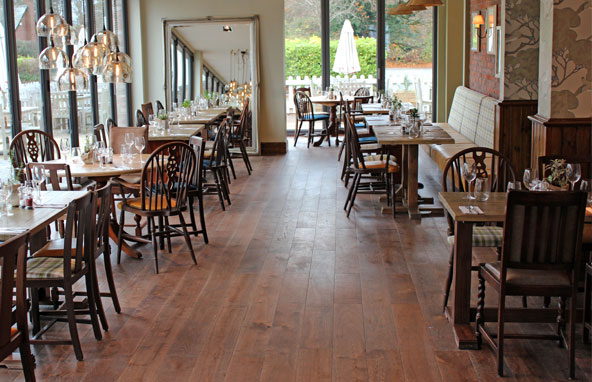
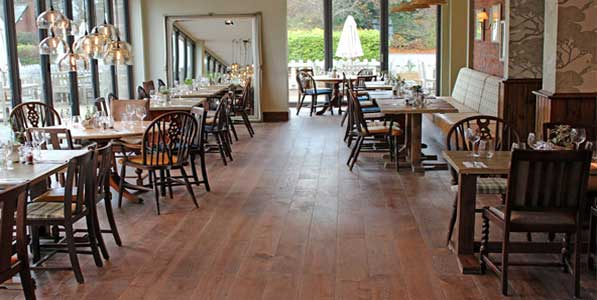
Optimised

diff --git a/Trails/_vti_cnf/Chester.html b/Trails/_vti_cnf/Chester.html
@@ -1,18 +1,18 @@
 vti_encoding:SR|utf8-nl
-vti_timelastmodified:TR|20 May 2014 14:10:47 -0000
+vti_timelastmodified:TR|20 May 2014 15:01:28 -0000
 vti_extenderversion:SR|12.0.0.0
 vti_backlinkinfo:VX|Trails/Chester.html Trails.html
 vti_author:SR|SIMON-HP\\Simon
 vti_modifiedby:SR|SIMON-HP\\Simon
 vti_timecreated:TR|14 May 2014 10:51:52 -0000
 vti_title:SR|Great British Food Trail
-vti_nexttolasttimemodified:TW|20 May 2014 14:10:08 -0000
-vti_cacheddtm:TX|20 May 2014 14:10:08 -0000
-vti_filesize:IR|25261
+vti_nexttolasttimemodified:TW|20 May 2014 14:10:47 -0000
+vti_cacheddtm:TX|20 May 2014 15:01:28 -0000
+vti_filesize:IR|25162
 vti_cachedtitle:SR|Great British Food Trail
 vti_cachedbodystyle:SR|<body>
-vti_cachedlinkinfo:VX|G|../Site.dwt Q|../Bootstrap/css/bootstrap.min.css Q|../GreatBritishFoodTrailsStyleSheet.css S|https://ajax.googleapis.com/ajax/libs/jquery/1.11.0/jquery.min.js S|../Bootstrap/js/collapse.js S|../Bootstrap/js/carousel.js S|../Bootstrap/js/dropdown.js S|../cordova.js S|../device.js S|../inappbrowser.js H|../index.html H|../AboutFoodTrails.html H|../Trails.html H|../Map.html H|../Help.html H|../TrailWebsites.html K|Chester.html K|Chester.html K|Chester.html K|Chester.html K|Chester.html K|Chester.html K|Chester.html S|../Images/BawnLodge1.fw.png S|../Images/BawnLodge3.fw.png S|../Images/BawnLodge2.fw.png K|Chester.html K|Chester.html K|Chester.html S|../Images/BearBillet1.fw.png S|../Images/BearBillet3.fw.png S|../Images/BearBillet2.fw.png K|Chester.html K|Chester.html K|Chester.html S|../Images/BreweryTap1.fw.png S|../Images/BreweryTap3.fw.png S|../Images/BreweryTap2.fw.png K|Chester.html K|Chester.html K|Chester.html S|../Images/CoachHouse1.fw.png S|../Images/CoachHouse3.fw.png S|../Images/CoachHouse2.fw.png K|Chester.html K|Chester.html K|Chester.html S|../Images/MillHotel1.fw.png S|../Images/MillHotel3.fw.png S|../Images/MillHotel2.fw.png K|Chester.html K|Chester.html K|Chester.html S|../Images/HarkersArms1.fw.png S|../Images/HarkersArms3.fw.png S|../Images/HarkersArms2.fw.png K|Chester.html K|Chester.html K|Chester.html S|../Images/PiedBull1.fw.png S|../Images/PiedBull3.fw.png S|../Images/PiedBull2.fw.png K|Chester.html K|Chester.html K|Chester.html S|../Images/RingoBells1.fw.png S|../Images/RingoBells3.fw.png S|../Images/RingoBells2.fw.png K|Chester.html K|Chester.html K|Chester.html S|../Images/Telfords1.fw.png S|../Images/Telfords3.fw.png S|../Images/Telfords2.fw.png K|Chester.html K|Chester.html K|Chester.html S|../Images/TempleBar1.fw.png S|../Images/TempleBar3.fw.png S|../Images/TempleBar2.fw.png K|Chester.html K|Chester.html K|Chester.html S|../Images/KashTaprooms1.fw.png S|../Images/KashTaprooms3.fw.png S|../Images/KashTaprooms2.fw.png K|Chester.html K|Chester.html S|../Images/ic_logo.png S|../Images/chesteruni_logo.png
-vti_cachedsvcrellinks:VX|FGUS|Site.dwt FQUS|Bootstrap/css/bootstrap.min.css FQUS|GreatBritishFoodTrailsStyleSheet.css NSSS|https://ajax.googleapis.com/ajax/libs/jquery/1.11.0/jquery.min.js FSUS|Bootstrap/js/collapse.js FSUS|Bootstrap/js/carousel.js FSUS|Bootstrap/js/dropdown.js FSUS|cordova.js FSUS|device.js NSUS|inappbrowser.js FHUS|index.html FHUS|AboutFoodTrails.html FHUS|Trails.html FHUS|Map.html FHUS|Help.html FHUS|TrailWebsites.html FKUS|Trails/Chester.html FKUS|Trails/Chester.html FKUS|Trails/Chester.html FKUS|Trails/Chester.html FKUS|Trails/Chester.html FKUS|Trails/Chester.html FKUS|Trails/Chester.html FSUS|Images/BawnLodge1.fw.png FSUS|Images/BawnLodge3.fw.png FSUS|Images/BawnLodge2.fw.png FKUS|Trails/Chester.html FKUS|Trails/Chester.html FKUS|Trails/Chester.html FSUS|Images/BearBillet1.fw.png FSUS|Images/BearBillet3.fw.png FSUS|Images/BearBillet2.fw.png FKUS|Trails/Chester.html FKUS|Trails/Chester.html FKUS|Trails/Chester.html FSUS|Images/BreweryTap1.fw.png FSUS|Images/BreweryTap3.fw.png FSUS|Images/BreweryTap2.fw.png FKUS|Trails/Chester.html FKUS|Trails/Chester.html FKUS|Trails/Chester.html FSUS|Images/CoachHouse1.fw.png FSUS|Images/CoachHouse3.fw.png FSUS|Images/CoachHouse2.fw.png FKUS|Trails/Chester.html FKUS|Trails/Chester.html FKUS|Trails/Chester.html FSUS|Images/MillHotel1.fw.png FSUS|Images/MillHotel3.fw.png FSUS|Images/MillHotel2.fw.png FKUS|Trails/Chester.html FKUS|Trails/Chester.html FKUS|Trails/Chester.html FSUS|Images/HarkersArms1.fw.png FSUS|Images/HarkersArms3.fw.png FSUS|Images/HarkersArms2.fw.png FKUS|Trails/Chester.html FKUS|Trails/Chester.html FKUS|Trails/Chester.html FSUS|Images/PiedBull1.fw.png FSUS|Images/PiedBull3.fw.png FSUS|Images/PiedBull2.fw.png FKUS|Trails/Chester.html FKUS|Trails/Chester.html FKUS|Trails/Chester.html FSUS|Images/RingoBells1.fw.png FSUS|Images/RingoBells3.fw.png FSUS|Images/RingoBells2.fw.png FKUS|Trails/Chester.html FKUS|Trails/Chester.html FKUS|Trails/Chester.html FSUS|Images/Telfords1.fw.png FSUS|Images/Telfords3.fw.png FSUS|Images/Telfords2.fw.png FKUS|Trails/Chester.html FKUS|Trails/Chester.html FKUS|Trails/Chester.html FSUS|Images/TempleBar1.fw.png FSUS|Images/TempleBar3.fw.png FSUS|Images/TempleBar2.fw.png FKUS|Trails/Chester.html FKUS|Trails/Chester.html FKUS|Trails/Chester.html FSUS|Images/KashTaprooms1.fw.png FSUS|Images/KashTaprooms3.fw.png FSUS|Images/KashTaprooms2.fw.png FKUS|Trails/Chester.html FKUS|Trails/Chester.html FSUS|Images/ic_logo.png FSUS|Images/chesteruni_logo.png
+vti_cachedlinkinfo:VX|G|../Site.dwt Q|../Bootstrap/css/bootstrap.min.css Q|../GreatBritishFoodTrailsStyleSheet.css S|https://ajax.googleapis.com/ajax/libs/jquery/1.11.0/jquery.min.js S|../Bootstrap/js/collapse.js S|../Bootstrap/js/carousel.js S|../Bootstrap/js/dropdown.js S|../cordova.js S|../device.js S|../inappbrowser.js H|../index.html H|../AboutFoodTrails.html H|../Trails.html H|../Map.html H|../Help.html H|../TrailWebsites.html K|Chester.html K|Chester.html K|Chester.html K|Chester.html K|Chester.html K|Chester.html K|Chester.html S|../Images/BawnLodge1.jpg S|../Images/BawnLodge3.jpg S|../Images/BawnLodge2.jpg K|Chester.html K|Chester.html K|Chester.html S|../Images/BearBillet1.jpg S|../Images/BearBillet3.jpg S|../Images/BearBillet2.jpg K|Chester.html K|Chester.html K|Chester.html S|../Images/BreweryTap1.jpg S|../Images/BreweryTap3.jpg S|../Images/BreweryTap2.jpg K|Chester.html K|Chester.html K|Chester.html S|../Images/CoachHouse1.jpg S|../Images/CoachHouse3.jpg S|../Images/CoachHouse2.jpg K|Chester.html K|Chester.html K|Chester.html S|../Images/MillHotel1.jpg S|../Images/MillHotel3.jpg S|../Images/MillHotel2.jpg K|Chester.html K|Chester.html K|Chester.html S|../Images/HarkersArms1.jpg S|../Images/HarkersArms3.jpg S|../Images/HarkersArms2.jpg K|Chester.html K|Chester.html K|Chester.html S|../Images/PiedBull1.jpg S|../Images/PiedBull3.jpg S|../Images/PiedBull2.jpg K|Chester.html K|Chester.html K|Chester.html S|../Images/RingoBells1.jpg S|../Images/RingoBells3.jpg S|../Images/RingoBells2.jpg K|Chester.html K|Chester.html K|Chester.html S|../Images/Telfords1.jpg S|../Images/Telfords3.jpg S|../Images/Telfords2.jpg K|Chester.html K|Chester.html K|Chester.html S|../Images/TempleBar1.jpg S|../Images/TempleBar3.jpg S|../Images/TempleBar2.jpg K|Chester.html K|Chester.html K|Chester.html S|../Images/KashTaprooms1.jpg S|../Images/KashTaprooms3.jpg S|../Images/KashTaprooms2.jpg K|Chester.html K|Chester.html S|../Images/ic_logo.png S|../Images/chesteruni_logo.png
+vti_cachedsvcrellinks:VX|FGUS|Site.dwt FQUS|Bootstrap/css/bootstrap.min.css FQUS|GreatBritishFoodTrailsStyleSheet.css NSSS|https://ajax.googleapis.com/ajax/libs/jquery/1.11.0/jquery.min.js FSUS|Bootstrap/js/collapse.js FSUS|Bootstrap/js/carousel.js FSUS|Bootstrap/js/dropdown.js FSUS|cordova.js FSUS|device.js NSUS|inappbrowser.js FHUS|index.html FHUS|AboutFoodTrails.html FHUS|Trails.html FHUS|Map.html FHUS|Help.html FHUS|TrailWebsites.html FKUS|Trails/Chester.html FKUS|Trails/Chester.html FKUS|Trails/Chester.html FKUS|Trails/Chester.html FKUS|Trails/Chester.html FKUS|Trails/Chester.html FKUS|Trails/Chester.html FSUS|Images/BawnLodge1.jpg FSUS|Images/BawnLodge3.jpg FSUS|Images/BawnLodge2.jpg FKUS|Trails/Chester.html FKUS|Trails/Chester.html FKUS|Trails/Chester.html FSUS|Images/BearBillet1.jpg FSUS|Images/BearBillet3.jpg FSUS|Images/BearBillet2.jpg FKUS|Trails/Chester.html FKUS|Trails/Chester.html FKUS|Trails/Chester.html FSUS|Images/BreweryTap1.jpg FSUS|Images/BreweryTap3.jpg FSUS|Images/BreweryTap2.jpg FKUS|Trails/Chester.html FKUS|Trails/Chester.html FKUS|Trails/Chester.html FSUS|Images/CoachHouse1.jpg FSUS|Images/CoachHouse3.jpg FSUS|Images/CoachHouse2.jpg FKUS|Trails/Chester.html FKUS|Trails/Chester.html FKUS|Trails/Chester.html FSUS|Images/MillHotel1.jpg FSUS|Images/MillHotel3.jpg FSUS|Images/MillHotel2.jpg FKUS|Trails/Chester.html FKUS|Trails/Chester.html FKUS|Trails/Chester.html FSUS|Images/HarkersArms1.jpg FSUS|Images/HarkersArms3.jpg FSUS|Images/HarkersArms2.jpg FKUS|Trails/Chester.html FKUS|Trails/Chester.html FKUS|Trails/Chester.html FSUS|Images/PiedBull1.jpg FSUS|Images/PiedBull3.jpg FSUS|Images/PiedBull2.jpg FKUS|Trails/Chester.html FKUS|Trails/Chester.html FKUS|Trails/Chester.html FSUS|Images/RingoBells1.jpg FSUS|Images/RingoBells3.jpg FSUS|Images/RingoBells2.jpg FKUS|Trails/Chester.html FKUS|Trails/Chester.html FKUS|Trails/Chester.html FSUS|Images/Telfords1.jpg FSUS|Images/Telfords3.jpg FSUS|Images/Telfords2.jpg FKUS|Trails/Chester.html FKUS|Trails/Chester.html FKUS|Trails/Chester.html FSUS|Images/TempleBar1.jpg FSUS|Images/TempleBar3.jpg FSUS|Images/TempleBar2.jpg FKUS|Trails/Chester.html FKUS|Trails/Chester.html FKUS|Trails/Chester.html FSUS|Images/KashTaprooms1.jpg FSUS|Images/KashTaprooms3.jpg FSUS|Images/KashTaprooms2.jpg FKUS|Trails/Chester.html FKUS|Trails/Chester.html FSUS|Images/ic_logo.png FSUS|Images/chesteruni_logo.png
 vti_cachedneedsrewrite:BR|false
 vti_cachedhasbots:BR|false
 vti_cachedhastheme:BR|false

diff --git a/Trails/Chester.html b/Trails/Chester.html
@@ -99,13 +99,13 @@
 							<!-- Wrapper for slides -->
 							<div class="carousel-inner">
 								<div class="item active">
-									<img alt="Stanley House" src="../Images/BawnLodge1.fw.png">
+									<img alt="Stanley House" src="../Images/BawnLodge1.jpg">
 								</div>
 								<div class="item">
-									<img alt="Map" src="../Images/BawnLodge3.fw.png">
+									<img alt="Map" src="../Images/BawnLodge3.jpg">
 								</div>
 								<div class="item">
-									<img alt="Lamb Chops" src="../Images/BawnLodge2.fw.png">
+									<img alt="Lamb Chops" src="../Images/BawnLodge2.jpg">
 								</div>
 							</div>
 							<!-- Controls -->
@@ -149,13 +149,13 @@
 							<!-- Wrapper for slides -->
 							<div class="carousel-inner">
 								<div class="item active">
-									<img alt="Stanley House" src="../Images/BearBillet1.fw.png">
+									<img alt="Stanley House" src="../Images/BearBillet1.jpg">
 								</div>
 								<div class="item">
-									<img alt="Map" src="../Images/BearBillet3.fw.png">
+									<img alt="Map" src="../Images/BearBillet3.jpg">
 								</div>
 								<div class="item">
-									<img alt="Lamb Chops" src="../Images/BearBillet2.fw.png">
+									<img alt="Lamb Chops" src="../Images/BearBillet2.jpg">
 								</div>
 							</div>
 							<!-- Controls -->
@@ -200,13 +200,13 @@
 							<!-- Wrapper for slides -->
 							<div class="carousel-inner">
 								<div class="item active">
-									<img alt="The Brewery Tap" src="../Images/BreweryTap1.fw.png">
+									<img alt="The Brewery Tap" src="../Images/BreweryTap1.jpg">
 								</div>
 								<div class="item">
-									<img alt="Map" src="../Images/BreweryTap3.fw.png">
+									<img alt="Map" src="../Images/BreweryTap3.jpg">
 								</div>
 								<div class="item">
-									<img alt="The Brewery Tap Bar" src="../Images/BreweryTap2.fw.png">
+									<img alt="The Brewery Tap Bar" src="../Images/BreweryTap2.jpg">
 								</div>
 							</div>
 							<!-- Controls -->
@@ -251,13 +251,13 @@
 							<!-- Wrapper for slides -->
 							<div class="carousel-inner">
 								<div class="item active">
-									<img alt="Stanley House" src="../Images/CoachHouse1.fw.png">
+									<img alt="Stanley House" src="../Images/CoachHouse1.jpg">
 								</div>
 								<div class="item">
-									<img alt="Map" src="../Images/CoachHouse3.fw.png">
+									<img alt="Map" src="../Images/CoachHouse3.jpg">
 								</div>
 								<div class="item">
-									<img alt="Lamb Chops" src="../Images/CoachHouse2.fw.png">
+									<img alt="Lamb Chops" src="../Images/CoachHouse2.jpg">
 								</div>
 							</div>
 							<!-- Controls -->
@@ -305,13 +305,13 @@
 							<!-- Wrapper for slides -->
 							<div class="carousel-inner">
 								<div class="item active">
-									<img alt="Stanley House" src="../Images/MillHotel1.fw.png">
+									<img alt="Stanley House" src="../Images/MillHotel1.jpg">
 								</div>
 								<div class="item">
-									<img alt="Map" src="../Images/MillHotel3.fw.png">
+									<img alt="Map" src="../Images/MillHotel3.jpg">
 								</div>
 								<div class="item">
-									<img alt="Lamb Chops" src="../Images/MillHotel2.fw.png">
+									<img alt="Lamb Chops" src="../Images/MillHotel2.jpg">
 								</div>
 							</div>
 							<!-- Controls -->
@@ -356,13 +356,13 @@
 							<!-- Wrapper for slides -->
 							<div class="carousel-inner">
 								<div class="item active">
-									<img alt="Stanley House" src="../Images/HarkersArms1.fw.png">
+									<img alt="Stanley House" src="../Images/HarkersArms1.jpg">
 								</div>
 								<div class="item">
-									<img alt="Map" src="../Images/HarkersArms3.fw.png">
+									<img alt="Map" src="../Images/HarkersArms3.jpg">
 								</div>
 								<div class="item">
-									<img alt="Lamb Chops" src="../Images/HarkersArms2.fw.png">
+									<img alt="Lamb Chops" src="../Images/HarkersArms2.jpg">
 								</div>
 							</div>
 							<!-- Controls -->
@@ -407,13 +407,13 @@
 							<!-- Wrapper for slides -->
 							<div class="carousel-inner">
 								<div class="item active">
-									<img alt="Stanley House" src="../Images/PiedBull1.fw.png">
+									<img alt="Stanley House" src="../Images/PiedBull1.jpg">
 								</div>
 								<div class="item">
-									<img alt="Map" src="../Images/PiedBull3.fw.png">
+									<img alt="Map" src="../Images/PiedBull3.jpg">
 								</div>
 								<div class="item">
-									<img alt="Lamb Chops" src="../Images/PiedBull2.fw.png">
+									<img alt="Lamb Chops" src="../Images/PiedBull2.jpg">
 								</div>
 							</div>
 							<!-- Controls -->
@@ -457,13 +457,13 @@
 							<!-- Wrapper for slides -->
 							<div class="carousel-inner">
 								<div class="item active">
-									<img alt="Stanley House" src="../Images/RingoBells1.fw.png">
+									<img alt="Stanley House" src="../Images/RingoBells1.jpg">
 								</div>
 								<div class="item">
-									<img alt="Map" src="../Images/RingoBells3.fw.png">
+									<img alt="Map" src="../Images/RingoBells3.jpg">
 								</div>
 								<div class="item">
-									<img alt="Lamb Chops" src="../Images/RingoBells2.fw.png">
+									<img alt="Lamb Chops" src="../Images/RingoBells2.jpg">
 								</div>
 							</div>
 							<!-- Controls -->
@@ -508,13 +508,13 @@
 							<!-- Wrapper for slides -->
 							<div class="carousel-inner">
 								<div class="item active">
-									<img alt="Stanley House" src="../Images/Telfords1.fw.png">
+									<img alt="Stanley House" src="../Images/Telfords1.jpg">
 								</div>
 								<div class="item">
-									<img alt="Map" src="../Images/Telfords3.fw.png">
+									<img alt="Map" src="../Images/Telfords3.jpg">
 								</div>
 								<div class="item">
-									<img alt="Lamb Chops" src="../Images/Telfords2.fw.png">
+									<img alt="Lamb Chops" src="../Images/Telfords2.jpg">
 								</div>
 							</div>
 							<!-- Controls -->
@@ -558,13 +558,13 @@
 							<!-- Wrapper for slides -->
 							<div class="carousel-inner">
 								<div class="item active">
-									<img alt="Stanley House" src="../Images/TempleBar1.fw.png">
+									<img alt="Stanley House" src="../Images/TempleBar1.jpg">
 								</div>
 								<div class="item">
-									<img alt="Map" src="../Images/TempleBar3.fw.png">
+									<img alt="Map" src="../Images/TempleBar3.jpg">
 								</div>
 								<div class="item">
-									<img alt="Lamb Chops" src="../Images/TempleBar2.fw.png">
+									<img alt="Lamb Chops" src="../Images/TempleBar2.jpg">
 								</div>
 							</div>
 							<!-- Controls -->
@@ -608,13 +608,13 @@
 							<!-- Wrapper for slides -->
 							<div class="carousel-inner">
 								<div class="item active">
-									<img alt="Stanley House" src="../Images/KashTaprooms1.fw.png">
+									<img alt="Stanley House" src="../Images/KashTaprooms1.jpg">
 								</div>
 								<div class="item">
-									<img alt="Map" src="../Images/KashTaprooms3.fw.png">
+									<img alt="Map" src="../Images/KashTaprooms3.jpg">
 								</div>
 								<div class="item">
-									<img alt="Lamb Chops" src="../Images/KashTaprooms2.fw.png">
+									<img alt="Lamb Chops" src="../Images/KashTaprooms2.jpg">
 								</div>
 							</div>
 							<!-- Controls -->
